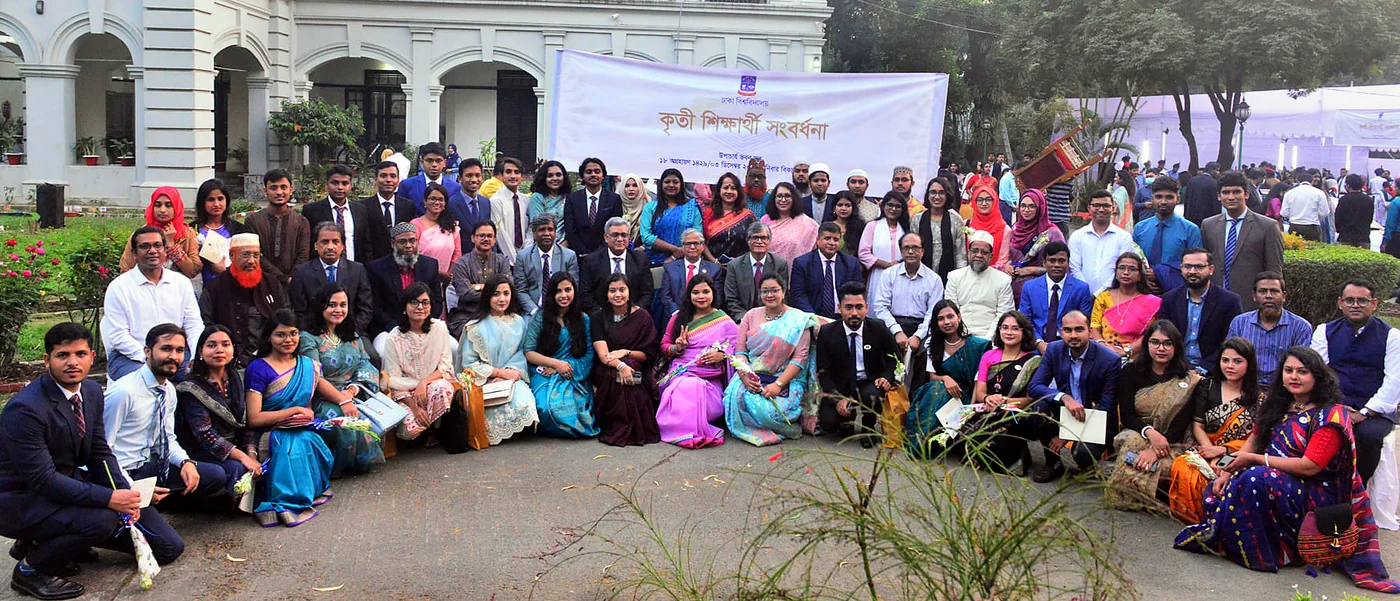
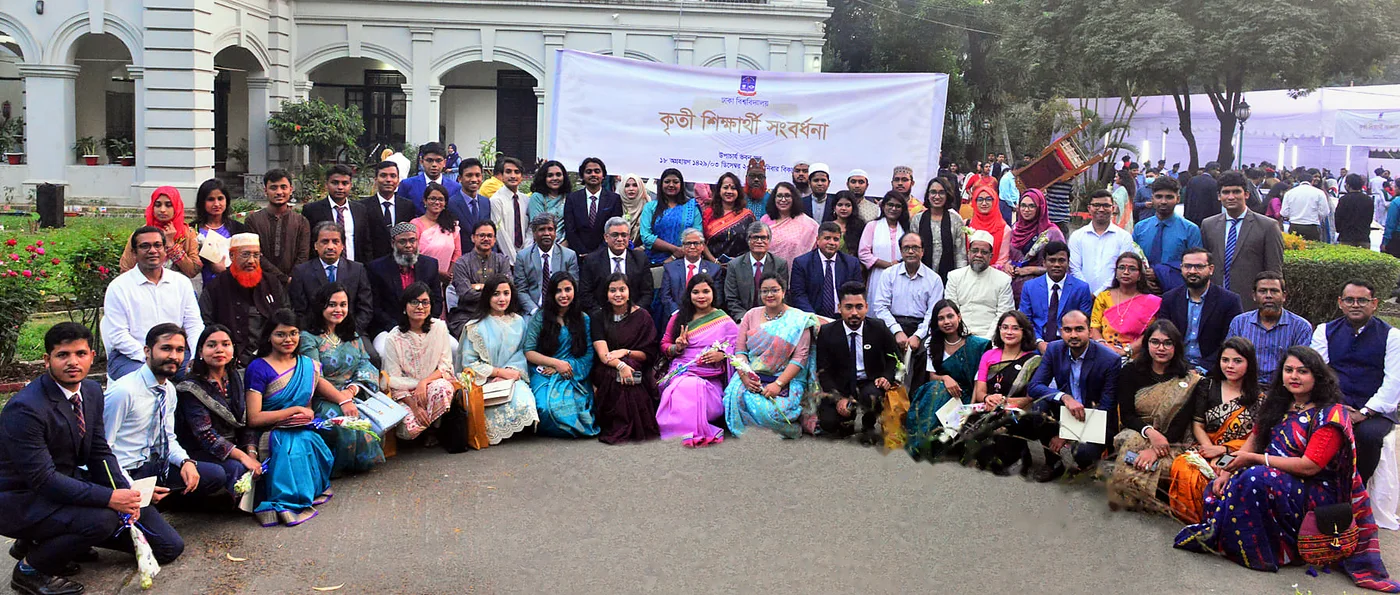
Gallery: clean reception photo (foreground plant removed); add graduation day photo
Claude-Session: https://claude.ai/code/session_01Yc1SUgE5JUQb12Ai84TjJa

diff --git a/honors.html b/honors.html
@@ -15,7 +15,7 @@
 <link rel="preconnect" href="https://fonts.googleapis.com"><link rel="preconnect" href="https://fonts.gstatic.com" crossorigin>
 <link href="https://fonts.googleapis.com/css2?family=EB+Garamond:ital,wght@0,400;0,500;0,600;1,400;1,500&family=Source+Sans+3:wght@400;600;700&display=swap" rel="stylesheet">
 <link href="https://cdnjs.cloudflare.com/ajax/libs/font-awesome/6.5.1/css/all.min.css" rel="stylesheet">
-<link rel="stylesheet" href="style.css?v=65b5bb94">
+<link rel="stylesheet" href="style.css?v=7edd5704">
 </head>
 <body>
 <a class="skip-link" href="#main">Skip to content</a>
@@ -44,7 +44,7 @@
 </section>
 <section class="sec"><div class="wrap"><div class="sec-head"><div><span class="eyebrow">Signature</span><h2>The <em>big</em> three</h2></div></div><div class="medals"><div class="spot medal rv" style="--d:0.00s"><i class="fas fa-medal" aria-hidden="true"></i><div><h3>Gold Medal</h3><p>Mohammad Shahidullah Memorial Gold Medal, top of the Masters cohort, University of Dhaka.</p></div></div><div class="spot medal rv" style="--d:0.08s"><i class="fas fa-file-lines" aria-hidden="true"></i><div><h3>Best Paper, IIKM 2025</h3><p>For the policy review of generative AI across academic publishers and universities.</p></div></div><div class="spot medal rv" style="--d:0.16s"><i class="fas fa-trophy" aria-hidden="true"></i><div><h3>Dean&#x27;s Award</h3><p>Dean&#x27;s Merit List of Honour at both the Bachelor&#x27;s and Master&#x27;s levels, alongside the Provost Award of Academic Excellence.</p></div></div></div></div></section>
 <section class="sec" style="padding-top:0"><div class="wrap"><div class="sec-head"><div><span class="eyebrow">All honors</span><h2>Every <em>award</em></h2></div></div><div class="awards"><div class="spot aw rv" style="--d:0.00s"><h3>Research<small>01</small></h3><ul><li><i class="fas fa-medal" aria-hidden="true"></i><span>Best Paper Award, International Conference on Information and Knowledge Management (IIKM 2025), for the GenAI policy review of academic publishers and universities</span></li></ul></div><div class="spot aw rv" style="--d:0.06s"><h3>Academic Distinction<small>05</small></h3><ul><li><i class="fas fa-medal" aria-hidden="true"></i><span>Mohammad Shahidullah Memorial Gold Medal (Masters)</span></li><li><i class="fas fa-trophy" aria-hidden="true"></i><span>Dean&#x27;s Merit List of Honour (Masters)</span></li><li><i class="fas fa-trophy" aria-hidden="true"></i><span>Dean&#x27;s Merit List of Honour (Undergraduate)</span></li><li><i class="fas fa-star" aria-hidden="true"></i><span>Provost Award of Academic Excellence</span></li><li><i class="fas fa-book" aria-hidden="true"></i><span>Book Grant from the University of Dhaka for outstanding results in Masters</span></li></ul></div><div class="spot aw rv" style="--d:0.12s"><h3>Scholarships<small>05</small></h3><ul><li><i class="fas fa-award" aria-hidden="true"></i><span>University Grants Commission (UGC) Undergraduate Scholarship</span></li><li><i class="fas fa-award" aria-hidden="true"></i><span>Mitsubishi UFJ Foundation Scholarship</span></li><li><i class="fas fa-award" aria-hidden="true"></i><span>Merit Scholarship, University of Dhaka</span></li><li><i class="fas fa-award" aria-hidden="true"></i><span>ISLM Alumni Association Scholarship</span></li><li><i class="fas fa-award" aria-hidden="true"></i><span>Dhaka University Alumni Association Scholarship</span></li></ul></div><div class="spot aw rv" style="--d:0.18s"><h3>Professional &amp; Community<small>05</small></h3><ul><li><i class="fas fa-trophy" aria-hidden="true"></i><span>First Place, Internship at Dhaka University Library</span></li><li><i class="fas fa-trophy" aria-hidden="true"></i><span>First Place, Internship at BANSDOC</span></li><li><i class="fas fa-trophy" aria-hidden="true"></i><span>Training Presentation Award, Bangladesh National Archives and Library</span></li><li><i class="fas fa-trophy" aria-hidden="true"></i><span>First Position, Computer Fundamentals &amp; OS Basics Training, University of Dhaka</span></li><li><i class="fas fa-droplet" aria-hidden="true"></i><span>Blood Donor Recognition from Badhan (donated blood more than 12 times)</span></li></ul></div></div></div></section>
-<section class="sec" id="gallery" style="padding-top:0"><div class="wrap"><div class="sec-head"><div><span class="eyebrow">Gallery</span><h2>Milestones &amp; <em>memories</em></h2></div><div class="side rv" style="--d:.1s"><p>Select a photo to view it full screen.</p></div></div><div class="gallery"><button class="shot rv" type="button" data-full="images/web/iikm4b.webp" data-title="Best Paper Award" data-desc="Receiving the Best Paper Award at the International Conference on Information and Knowledge Management (IIKM)."><img src="images/web/iikm4b.webp" alt="Best Paper Award" loading="lazy"><div class="cap"><h4>Best Paper Award</h4><p>Receiving the Best Paper Award at the International Conference on Information and Knowledge Management (IIKM).</p></div></button><button class="shot rv" type="button" data-full="images/web/gold.webp" data-title="Gold Medal Reception" data-desc="Receiving the Mohammad Shahidullah Memorial Gold Medal at the University of Dhaka."><img src="images/web/gold.webp" alt="Gold Medal Reception" loading="lazy"><div class="cap"><h4>Gold Medal Reception</h4><p>Receiving the Mohammad Shahidullah Memorial Gold Medal at the University of Dhaka.</p></div></button><button class="shot rv" type="button" data-full="images/web/deans.webp" data-title="Dean&#x27;s Award" data-desc="Receiving the Dean&#x27;s Award at the University of Dhaka."><img src="images/web/deans.webp" alt="Dean&#x27;s Award" loading="lazy"><div class="cap"><h4>Dean&#x27;s Award</h4><p>Receiving the Dean&#x27;s Award at the University of Dhaka.</p></div></button><button class="shot rv" type="button" data-full="images/web/provost.webp" data-title="Provost Award of Academic Excellence" data-desc="Receiving the Provost Award of Academic Excellence at the University of Dhaka."><img src="images/web/provost.webp" alt="Provost Award of Academic Excellence" loading="lazy"><div class="cap"><h4>Provost Award of Academic Excellence</h4><p>Receiving the Provost Award of Academic Excellence at the University of Dhaka.</p></div></button><button class="shot rv" type="button" data-full="images/web/dumerit.webp" data-title="Meritorious Students&#x27; Reception" data-desc="With the top students of two batches at the University of Dhaka&#x27;s reception for meritorious students, held at the Vice-Chancellor&#x27;s residence in December 2022."><img src="images/web/dumerit.webp" alt="Meritorious Students&#x27; Reception" loading="lazy"><div class="cap"><h4>Meritorious Students&#x27; Reception</h4><p>With the top students of two batches at the University of Dhaka&#x27;s reception for meritorious students, held at the Vice-Chancellor&#x27;s residence in December 2022.</p></div></button><button class="shot rv" type="button" data-full="images/web/iikm3.webp" data-title="International Conference Presentation" data-desc="Presenters&#x27; photo session at the International Conference on Information and Knowledge Management (IIKM)."><img src="images/web/iikm3.webp" alt="International Conference Presentation" loading="lazy"><div class="cap"><h4>International Conference Presentation</h4><p>Presenters&#x27; photo session at the International Conference on Information and Knowledge Management (IIKM).</p></div></button><button class="shot rv" type="button" data-full="images/web/national2.webp" data-title="Training Presentation Award" data-desc="Receiving the Training Presentation Award and prize at the Bangladesh National Archives and Library."><img src="images/web/national2.webp" alt="Training Presentation Award" loading="lazy"><div class="cap"><h4>Training Presentation Award</h4><p>Receiving the Training Presentation Award and prize at the Bangladesh National Archives and Library.</p></div></button><button class="shot rv" type="button" data-full="images/web/national.webp" data-title="Modern Library Management Training" data-desc="With fellow participants at the National Library of Bangladesh during the Modern Library Management training."><img src="images/web/national.webp" alt="Modern Library Management Training" loading="lazy"><div class="cap"><h4>Modern Library Management Training</h4><p>With fellow participants at the National Library of Bangladesh during the Modern Library Management training.</p></div></button><button class="shot rv" type="button" data-full="images/web/ittraining.webp" data-title="First Position in IT Training" data-desc="Receiving the First Position award in Computer Fundamentals and OS Basics training at the University of Dhaka."><img src="images/web/ittraining.webp" alt="First Position in IT Training" loading="lazy"><div class="cap"><h4>First Position in IT Training</h4><p>Receiving the First Position award in Computer Fundamentals and OS Basics training at the University of Dhaka.</p></div></button><button class="shot rv" type="button" data-full="images/web/sympo.webp" data-title="International Symposium on SDGs" data-desc="At the International Symposium on Empowering LIS Professionals for Achieving SDGs, where he served as an organizing volunteer."><img src="images/web/sympo.webp" alt="International Symposium on SDGs" loading="lazy"><div class="cap"><h4>International Symposium on SDGs</h4><p>At the International Symposium on Empowering LIS Professionals for Achieving SDGs, where he served as an organizing volunteer.</p></div></button><button class="shot rv" type="button" data-full="images/web/kohat.webp" data-title="Koha-ILS Training" data-desc="Receiving the Koha-ILS training certificate at Daffodil International University (DIU)."><img src="images/web/kohat.webp" alt="Koha-ILS Training" loading="lazy"><div class="cap"><h4>Koha-ILS Training</h4><p>Receiving the Koha-ILS training certificate at Daffodil International University (DIU).</p></div></button><button class="shot rv" type="button" data-full="images/web/blood.webp" data-title="Blood Donor Recognition" data-desc="Receiving blood donor recognition from Badhan at the University of Dhaka."><img src="images/web/blood.webp" alt="Blood Donor Recognition" loading="lazy"><div class="cap"><h4>Blood Donor Recognition</h4><p>Receiving blood donor recognition from Badhan at the University of Dhaka.</p></div></button></div></div></section>
+<section class="sec" id="gallery" style="padding-top:0"><div class="wrap"><div class="sec-head"><div><span class="eyebrow">Gallery</span><h2>Milestones &amp; <em>memories</em></h2></div><div class="side rv" style="--d:.1s"><p>Select a photo to view it full screen.</p></div></div><div class="gallery"><button class="shot rv" type="button" data-full="images/web/iikm4b.webp" data-title="Best Paper Award" data-desc="Receiving the Best Paper Award at the International Conference on Information and Knowledge Management (IIKM)."><img src="images/web/iikm4b.webp" alt="Best Paper Award" loading="lazy"><div class="cap"><h4>Best Paper Award</h4><p>Receiving the Best Paper Award at the International Conference on Information and Knowledge Management (IIKM).</p></div></button><button class="shot rv" type="button" data-full="images/web/gold.webp" data-title="Gold Medal Reception" data-desc="Receiving the Mohammad Shahidullah Memorial Gold Medal at the University of Dhaka."><img src="images/web/gold.webp" alt="Gold Medal Reception" loading="lazy"><div class="cap"><h4>Gold Medal Reception</h4><p>Receiving the Mohammad Shahidullah Memorial Gold Medal at the University of Dhaka.</p></div></button><button class="shot rv" type="button" data-full="images/web/deans.webp" data-title="Dean&#x27;s Award" data-desc="Receiving the Dean&#x27;s Award at the University of Dhaka."><img src="images/web/deans.webp" alt="Dean&#x27;s Award" loading="lazy"><div class="cap"><h4>Dean&#x27;s Award</h4><p>Receiving the Dean&#x27;s Award at the University of Dhaka.</p></div></button><button class="shot rv" type="button" data-full="images/web/provost.webp" data-title="Provost Award of Academic Excellence" data-desc="Receiving the Provost Award of Academic Excellence at the University of Dhaka."><img src="images/web/provost.webp" alt="Provost Award of Academic Excellence" loading="lazy"><div class="cap"><h4>Provost Award of Academic Excellence</h4><p>Receiving the Provost Award of Academic Excellence at the University of Dhaka.</p></div></button><button class="shot rv" type="button" data-full="images/web/dumerit.webp" data-title="Meritorious Students&#x27; Reception" data-desc="With the top students of two batches at the University of Dhaka&#x27;s reception for meritorious students, held at the Vice-Chancellor&#x27;s residence in December 2022."><img src="images/web/dumerit.webp" alt="Meritorious Students&#x27; Reception" loading="lazy"><div class="cap"><h4>Meritorious Students&#x27; Reception</h4><p>With the top students of two batches at the University of Dhaka&#x27;s reception for meritorious students, held at the Vice-Chancellor&#x27;s residence in December 2022.</p></div></button><button class="shot rv" type="button" data-full="images/web/dugrad.webp" data-title="Graduation Day" data-desc="Graduation day with his batchmates at the University of Dhaka, in front of the Aparajeyo Bangla sculpture."><img src="images/web/dugrad.webp" alt="Graduation Day" loading="lazy"><div class="cap"><h4>Graduation Day</h4><p>Graduation day with his batchmates at the University of Dhaka, in front of the Aparajeyo Bangla sculpture.</p></div></button><button class="shot rv" type="button" data-full="images/web/iikm3.webp" data-title="International Conference Presentation" data-desc="Presenters&#x27; photo session at the International Conference on Information and Knowledge Management (IIKM)."><img src="images/web/iikm3.webp" alt="International Conference Presentation" loading="lazy"><div class="cap"><h4>International Conference Presentation</h4><p>Presenters&#x27; photo session at the International Conference on Information and Knowledge Management (IIKM).</p></div></button><button class="shot rv" type="button" data-full="images/web/national2.webp" data-title="Training Presentation Award" data-desc="Receiving the Training Presentation Award and prize at the Bangladesh National Archives and Library."><img src="images/web/national2.webp" alt="Training Presentation Award" loading="lazy"><div class="cap"><h4>Training Presentation Award</h4><p>Receiving the Training Presentation Award and prize at the Bangladesh National Archives and Library.</p></div></button><button class="shot rv" type="button" data-full="images/web/national.webp" data-title="Modern Library Management Training" data-desc="With fellow participants at the National Library of Bangladesh during the Modern Library Management training."><img src="images/web/national.webp" alt="Modern Library Management Training" loading="lazy"><div class="cap"><h4>Modern Library Management Training</h4><p>With fellow participants at the National Library of Bangladesh during the Modern Library Management training.</p></div></button><button class="shot rv" type="button" data-full="images/web/ittraining.webp" data-title="First Position in IT Training" data-desc="Receiving the First Position award in Computer Fundamentals and OS Basics training at the University of Dhaka."><img src="images/web/ittraining.webp" alt="First Position in IT Training" loading="lazy"><div class="cap"><h4>First Position in IT Training</h4><p>Receiving the First Position award in Computer Fundamentals and OS Basics training at the University of Dhaka.</p></div></button><button class="shot rv" type="button" data-full="images/web/sympo.webp" data-title="International Symposium on SDGs" data-desc="At the International Symposium on Empowering LIS Professionals for Achieving SDGs, where he served as an organizing volunteer."><img src="images/web/sympo.webp" alt="International Symposium on SDGs" loading="lazy"><div class="cap"><h4>International Symposium on SDGs</h4><p>At the International Symposium on Empowering LIS Professionals for Achieving SDGs, where he served as an organizing volunteer.</p></div></button><button class="shot rv" type="button" data-full="images/web/kohat.webp" data-title="Koha-ILS Training" data-desc="Receiving the Koha-ILS training certificate at Daffodil International University (DIU)."><img src="images/web/kohat.webp" alt="Koha-ILS Training" loading="lazy"><div class="cap"><h4>Koha-ILS Training</h4><p>Receiving the Koha-ILS training certificate at Daffodil International University (DIU).</p></div></button><button class="shot rv" type="button" data-full="images/web/blood.webp" data-title="Blood Donor Recognition" data-desc="Receiving blood donor recognition from Badhan at the University of Dhaka."><img src="images/web/blood.webp" alt="Blood Donor Recognition" loading="lazy"><div class="cap"><h4>Blood Donor Recognition</h4><p>Receiving blood donor recognition from Badhan at the University of Dhaka.</p></div></button></div></div></section>
 <div class="lightbox" id="lightbox" role="dialog" aria-modal="true" aria-label="Photo viewer" aria-hidden="true">
   <button class="lb-btn lb-close" type="button" aria-label="Close"><i class="fas fa-xmark" aria-hidden="true"></i></button><button class="lb-btn lb-prev" type="button" aria-label="Previous"><i class="fas fa-chevron-left" aria-hidden="true"></i></button><button class="lb-btn lb-next" type="button" aria-label="Next"><i class="fas fa-chevron-right" aria-hidden="true"></i></button>
   <figure><img src="" alt=""><figcaption><h4></h4><p></p></figcaption></figure>
@@ -79,6 +79,6 @@
   </div>
 </div>
 <div class="toast" id="toast" role="status" aria-live="polite"></div>
-<script src="script.js?v=65b5bb94" defer></script>
+<script src="script.js?v=7edd5704" defer></script>
 </body>
 </html>

diff --git a/index.html b/index.html
@@ -15,7 +15,7 @@
 <link rel="preconnect" href="https://fonts.googleapis.com"><link rel="preconnect" href="https://fonts.gstatic.com" crossorigin>
 <link href="https://fonts.googleapis.com/css2?family=EB+Garamond:ital,wght@0,400;0,500;0,600;1,400;1,500&family=Source+Sans+3:wght@400;600;700&display=swap" rel="stylesheet">
 <link href="https://cdnjs.cloudflare.com/ajax/libs/font-awesome/6.5.1/css/all.min.css" rel="stylesheet">
-<link rel="stylesheet" href="style.css?v=65b5bb94">
+<link rel="stylesheet" href="style.css?v=7edd5704">
 <script type="application/ld+json">{"@context": "https://schema.org", "@type": "Person", "name": "Md Liton Ali", "url": "https://www.litonali.com", "image": "https://www.litonali.com/images/og-headshot.jpg", "jobTitle": "PhD Student, Information Science", "affiliation": {"@type": "CollegeOrUniversity", "name": "University of Arizona"}, "alumniOf": {"@type": "CollegeOrUniversity", "name": "University of Dhaka"}, "email": "mailto:litonali@arizona.edu", "sameAs": ["https://www.linkedin.com/in/3srliton/", "https://scholar.google.com/citations?user=ygCGG80AAAAJ&hl=en", "https://github.com/3srliton", "https://x.com/3srliton", "https://www.facebook.com/3srliton", "https://www.instagram.com/3srliton"], "knowsAbout": ["Science of Science", "AI in Higher Education", "Information Behavior", "Misinformation & Belief", "Digital Libraries"]}</script>
 <link rel="preload" as="image" href="images/web/headshot-ash.webp">
 </head>
@@ -150,6 +150,6 @@
   </div>
 </div>
 <div class="toast" id="toast" role="status" aria-live="polite"></div>
-<script src="script.js?v=65b5bb94" defer></script>
+<script src="script.js?v=7edd5704" defer></script>
 </body>
 </html>

diff --git a/research.html b/research.html
@@ -15,7 +15,7 @@
 <link rel="preconnect" href="https://fonts.googleapis.com"><link rel="preconnect" href="https://fonts.gstatic.com" crossorigin>
 <link href="https://fonts.googleapis.com/css2?family=EB+Garamond:ital,wght@0,400;0,500;0,600;1,400;1,500&family=Source+Sans+3:wght@400;600;700&display=swap" rel="stylesheet">
 <link href="https://cdnjs.cloudflare.com/ajax/libs/font-awesome/6.5.1/css/all.min.css" rel="stylesheet">
-<link rel="stylesheet" href="style.css?v=65b5bb94">
+<link rel="stylesheet" href="style.css?v=7edd5704">
 </head>
 <body>
 <a class="skip-link" href="#main">Skip to content</a>
@@ -206,6 +206,6 @@
   </div>
 </div>
 <div class="toast" id="toast" role="status" aria-live="polite"></div>
-<script src="script.js?v=65b5bb94" defer></script>
+<script src="script.js?v=7edd5704" defer></script>
 </body>
 </html>

diff --git a/about.html b/about.html
@@ -15,7 +15,7 @@
 <link rel="preconnect" href="https://fonts.googleapis.com"><link rel="preconnect" href="https://fonts.gstatic.com" crossorigin>
 <link href="https://fonts.googleapis.com/css2?family=EB+Garamond:ital,wght@0,400;0,500;0,600;1,400;1,500&family=Source+Sans+3:wght@400;600;700&display=swap" rel="stylesheet">
 <link href="https://cdnjs.cloudflare.com/ajax/libs/font-awesome/6.5.1/css/all.min.css" rel="stylesheet">
-<link rel="stylesheet" href="style.css?v=65b5bb94">
+<link rel="stylesheet" href="style.css?v=7edd5704">
 </head>
 <body>
 <a class="skip-link" href="#main">Skip to content</a>
@@ -89,6 +89,6 @@
   </div>
 </div>
 <div class="toast" id="toast" role="status" aria-live="polite"></div>
-<script src="script.js?v=65b5bb94" defer></script>
+<script src="script.js?v=7edd5704" defer></script>
 </body>
 </html>

diff --git a/contact.html b/contact.html
@@ -15,7 +15,7 @@
 <link rel="preconnect" href="https://fonts.googleapis.com"><link rel="preconnect" href="https://fonts.gstatic.com" crossorigin>
 <link href="https://fonts.googleapis.com/css2?family=EB+Garamond:ital,wght@0,400;0,500;0,600;1,400;1,500&family=Source+Sans+3:wght@400;600;700&display=swap" rel="stylesheet">
 <link href="https://cdnjs.cloudflare.com/ajax/libs/font-awesome/6.5.1/css/all.min.css" rel="stylesheet">
-<link rel="stylesheet" href="style.css?v=65b5bb94">
+<link rel="stylesheet" href="style.css?v=7edd5704">
 </head>
 <body>
 <a class="skip-link" href="#main">Skip to content</a>
@@ -92,6 +92,6 @@
   </div>
 </div>
 <div class="toast" id="toast" role="status" aria-live="polite"></div>
-<script src="script.js?v=65b5bb94" defer></script>
+<script src="script.js?v=7edd5704" defer></script>
 </body>
 </html>

diff --git a/cv.html b/cv.html
@@ -15,7 +15,7 @@
 <link rel="preconnect" href="https://fonts.googleapis.com"><link rel="preconnect" href="https://fonts.gstatic.com" crossorigin>
 <link href="https://fonts.googleapis.com/css2?family=EB+Garamond:ital,wght@0,400;0,500;0,600;1,400;1,500&family=Source+Sans+3:wght@400;600;700&display=swap" rel="stylesheet">
 <link href="https://cdnjs.cloudflare.com/ajax/libs/font-awesome/6.5.1/css/all.min.css" rel="stylesheet">
-<link rel="stylesheet" href="style.css?v=65b5bb94">
+<link rel="stylesheet" href="style.css?v=7edd5704">
 </head>
 <body>
 <a class="skip-link" href="#main">Skip to content</a>
@@ -85,6 +85,6 @@
   </div>
 </div>
 <div class="toast" id="toast" role="status" aria-live="polite"></div>
-<script src="script.js?v=65b5bb94" defer></script>
+<script src="script.js?v=7edd5704" defer></script>
 </body>
 </html>

diff --git a/experience.html b/experience.html
@@ -15,7 +15,7 @@
 <link rel="preconnect" href="https://fonts.googleapis.com"><link rel="preconnect" href="https://fonts.gstatic.com" crossorigin>
 <link href="https://fonts.googleapis.com/css2?family=EB+Garamond:ital,wght@0,400;0,500;0,600;1,400;1,500&family=Source+Sans+3:wght@400;600;700&display=swap" rel="stylesheet">
 <link href="https://cdnjs.cloudflare.com/ajax/libs/font-awesome/6.5.1/css/all.min.css" rel="stylesheet">
-<link rel="stylesheet" href="style.css?v=65b5bb94">
+<link rel="stylesheet" href="style.css?v=7edd5704">
 </head>
 <body>
 <a class="skip-link" href="#main">Skip to content</a>
@@ -83,6 +83,6 @@
   </div>
 </div>
 <div class="toast" id="toast" role="status" aria-live="polite"></div>
-<script src="script.js?v=65b5bb94" defer></script>
+<script src="script.js?v=7edd5704" defer></script>
 </body>
 </html>

diff --git a/service.html b/service.html
@@ -15,7 +15,7 @@
 <link rel="preconnect" href="https://fonts.googleapis.com"><link rel="preconnect" href="https://fonts.gstatic.com" crossorigin>
 <link href="https://fonts.googleapis.com/css2?family=EB+Garamond:ital,wght@0,400;0,500;0,600;1,400;1,500&family=Source+Sans+3:wght@400;600;700&display=swap" rel="stylesheet">
 <link href="https://cdnjs.cloudflare.com/ajax/libs/font-awesome/6.5.1/css/all.min.css" rel="stylesheet">
-<link rel="stylesheet" href="style.css?v=65b5bb94">
+<link rel="stylesheet" href="style.css?v=7edd5704">
 </head>
 <body>
 <a class="skip-link" href="#main">Skip to content</a>
@@ -75,6 +75,6 @@
   </div>
 </div>
 <div class="toast" id="toast" role="status" aria-live="polite"></div>
-<script src="script.js?v=65b5bb94" defer></script>
+<script src="script.js?v=7edd5704" defer></script>
 </body>
 </html>

diff --git a/_build/data.py b/_build/data.py
@@ -216,6 +216,7 @@ GALLERY = [
     ("deans", "Dean's Award", "Receiving the Dean's Award at the University of Dhaka."),
     ("provost", "Provost Award of Academic Excellence", "Receiving the Provost Award of Academic Excellence at the University of Dhaka."),
     ("dumerit", "Meritorious Students' Reception", "With the top students of two batches at the University of Dhaka's reception for meritorious students, held at the Vice-Chancellor's residence in December 2022."),
+    ("dugrad", "Graduation Day", "Graduation day with his batchmates at the University of Dhaka, in front of the Aparajeyo Bangla sculpture."),
     ("iikm3", "International Conference Presentation", "Presenters' photo session at the International Conference on Information and Knowledge Management (IIKM)."),
     ("national2", "Training Presentation Award", "Receiving the Training Presentation Award and prize at the Bangladesh National Archives and Library."),
     ("national", "Modern Library Management Training", "With fellow participants at the National Library of Bangladesh during the Modern Library Management training."),
